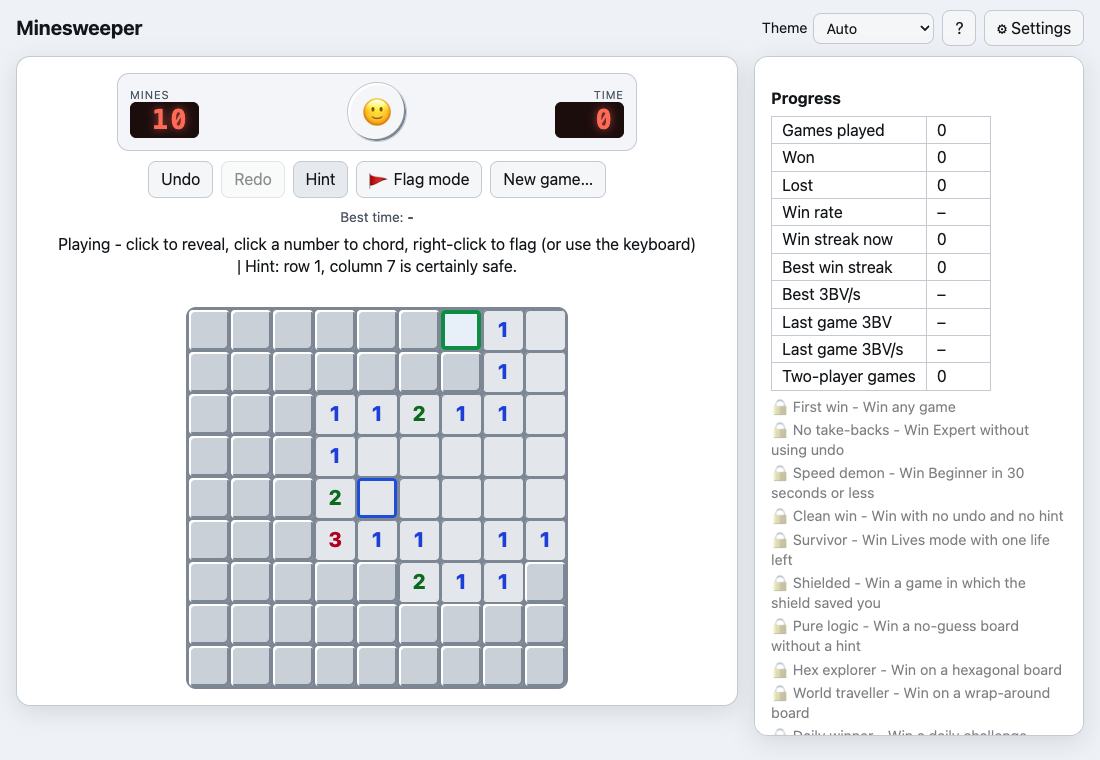
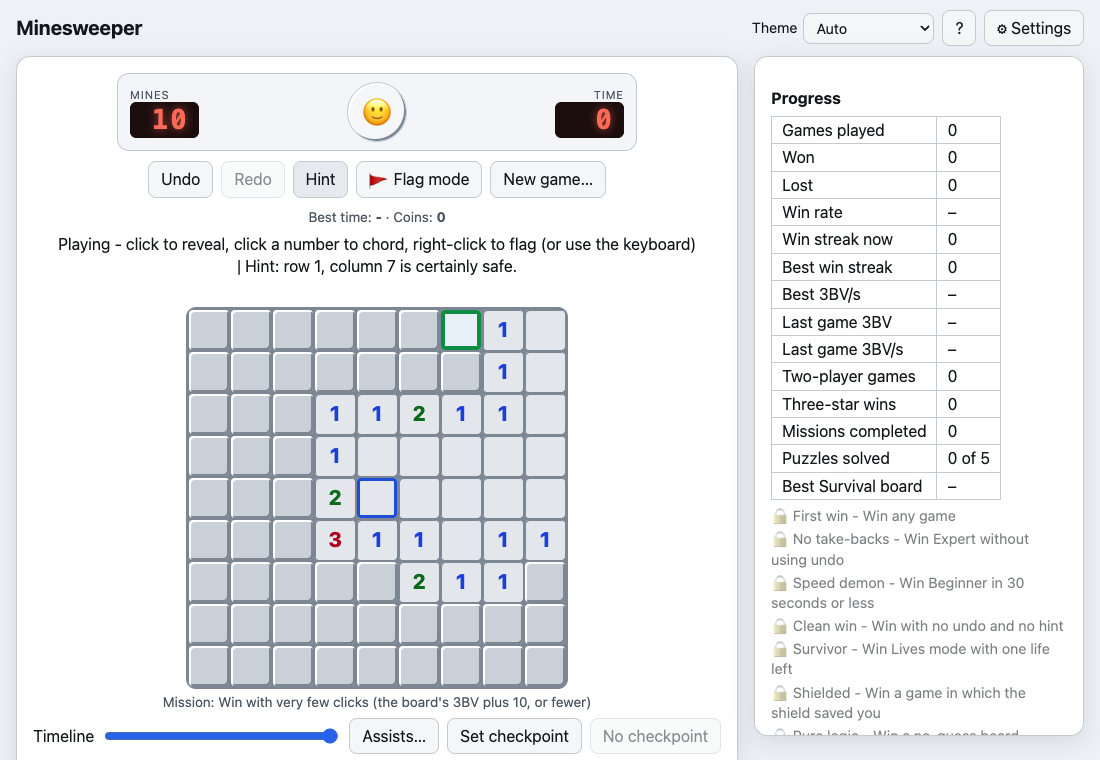
Update the report: demo steps for the newer features, git workflow rows, four new screenshots
Also offer Race my best only once a game is over or while racing a ghost.

diff --git a/scripts/screenshots.js b/scripts/screenshots.js
@@ -5,6 +5,7 @@ const { spawn } = require('child_process');
 const path = require('path');
 const { Game } = require('../src/game.js');
 const { mulberry32 } = require('../src/rng.js');
+const Solver = require('../src/solver.js');
 
 const out = path.join(__dirname, '..', 'docs', 'screenshots');
 const PORT = 4174, base = `http://127.0.0.1:${PORT}/index.html?seed=11`;
@@ -18,16 +19,28 @@ function minesOf(opts = {}) {
   return { mines: cells.filter(m => m.x.mine && !m.x.revealed), safe: cells.filter(m => !m.x.mine && !m.x.revealed) };
 }
 
+// Cells to click (after the first click at 4,4) until logic alone cannot go further: there the hint shows mine chances.
+function stuckClicks(seed) {
+  const g = new Game(9, 9, 10, mulberry32(seed)); g.reveal(4, 4);
+  const clicks = [];
+  for (;;) {
+    const v = g._visible(), { safe } = Solver.deduce(g.nb, v.revealed, v.num, v.known, 10);
+    const i = safe.findIndex((x, k) => x && !v.revealed[k]);
+    if (i < 0 || g.status !== 'playing') return clicks;
+    clicks.push([Math.floor(i / 9), i % 9]); g.reveal(Math.floor(i / 9), i % 9);
+  }
+}
+
 (async () => {
   const server = spawn('node', [path.join(__dirname, 'serve.js')], { env: { ...process.env, PORT: String(PORT) } });
   await new Promise(resolve => setTimeout(resolve, 800));
   const browser = await chromium.launch({ channel: process.env.PW_CHANNEL || undefined });
 
-  async function shot(name, ctxOptions, options, steps) {
+  async function shot(name, ctxOptions, options, steps, seed = 11) {
     const ctx = await browser.newContext(ctxOptions);
     const page = await ctx.newPage();
     if (options) await page.addInitScript(o => localStorage.setItem('ms-options', JSON.stringify(o)), options);
-    await page.goto(base);
+    await page.goto(base.replace('seed=11', 'seed=' + seed));
     const cell = (r, c) => page.locator('#board .cell').nth(r * 9 + c);
     const dismissTip = async () => { if (await page.locator('#tip').isVisible()) await page.click('#tip-dismiss'); };
     await steps({ page, cell, dismissTip });
@@ -73,6 +86,29 @@ function minesOf(opts = {}) {
 
   await shot('08-phone', { ...devices['Pixel 7'], deviceScaleFactor: 1 }, null, async ({ cell, dismissTip }) => {
     await dismissTip(); await cell(4, 4).click(); await dismissTip();
+  });
+
+  await shot('09-probability-hint', desktop, null, async ({ page, cell, dismissTip }) => {
+    await dismissTip(); await cell(4, 4).click(); await dismissTip();
+    for (const [r, c] of stuckClicks(36)) if (!(await cell(r, c).evaluate(el => el.classList.contains('open')))) await cell(r, c).click();
+    await page.click('#hint');
+  }, 36);
+
+  await shot('10-undo-timeline', desktop, null, async ({ page, cell, dismissTip }) => {
+    await dismissTip(); await cell(4, 4).click(); await dismissTip();
+    for (const c of [0, 1, 2, 3]) await cell(0, c).click({ button: 'right' });
+    await page.locator('#timeline').fill('3');
+  });
+
+  await shot('11-versus-computer', desktop, { mode: 'ai' }, async ({ page, cell, dismissTip }) => {
+    await dismissTip(); await cell(4, 4).click(); await dismissTip();
+    await page.waitForTimeout(1500);                           // the computer answers on the next clock tick
+  });
+
+  const shopCtx = { ...desktop, viewport: { width: 1100, height: 1100 } };
+  await shot('12-shop', shopCtx, null, async ({ page, dismissTip }) => {
+    await page.evaluate(() => { vm.shop.coins = 60; vm.shop.stock.scanner = 3; vm.shop.save(); vm.buy('pu-row'); });
+    await dismissTip(); await page.locator('#buy-theme-ocean').scrollIntoViewIfNeeded();
   });
 
   await browser.close();

diff --git a/src/app.js b/src/app.js
@@ -147,7 +147,7 @@ function render(s) {
   $('cp-set').disabled = !live;
   $('cp-back').disabled = !s.checkpoint.canReturn;
   $('cp-back').textContent = s.checkpoint.set ? 'Back to checkpoint' : 'No checkpoint';
-  $('race-ghost').hidden = !s.canRace || s.status === 'playing' && s.timeline.total === 0 && !s.ghost;
+  $('race-ghost').hidden = !s.canRace || (s.status === 'playing' && !s.ghost);   // offered once a game is over (or while racing)
   $('mission').hidden = !s.mission; if (s.mission) $('mission').textContent = 'Mission: ' + s.mission.text;
   $('ghostbar').hidden = !s.ghost;
   if (s.ghost) {

diff --git a/REPORT.md b/REPORT.md
@@ -28,6 +28,22 @@ A loss: the mine that was hit is outlined, the wrong flag has a cross, everythin
 
 Replay: the finished game is stepped through move by move (or played automatically).
 
+![Probability hint](docs/screenshots/09-probability-hint.png)
+
+Probability hint: when nothing is certain, Hint shows every hidden cell's chance of a mine (0 percent and 100 percent cells are certain).
+
+![Undo timeline](docs/screenshots/10-undo-timeline.png)
+
+The undo timeline under the board: the slider jumps to any move; the label says which move it is. Checkpoints sit beside it.
+
+![Versus the computer](docs/screenshots/11-versus-computer.png)
+
+Versus the computer: the scores are in the status line, and the computer answers your move on the next clock tick.
+
+![Shop](docs/screenshots/12-shop.png)
+
+The shop in the Stats and saves panel: coins from wins buy themes and power-ups.
+
 ![Dark theme](docs/screenshots/07-dark-theme.png)
 
 The dark theme. The Auto theme picks it when the device prefers dark.
@@ -308,7 +324,13 @@ Results: 192 of 192 logic tests pass. The browser tests pass in Chrome, WebKit, 
 10. Replay: finish a game (a quick loss is fine), then press Replay. Step forward and back, then press Play for the automatic replay, then Close replay.
 11. Daily challenge: New game..., Today's daily challenge. The status line shows the date. Open the share link from the side panel in another tab: the same board appears.
 12. Appearance and keys: switch the theme to Dark; open Settings, Controls and add a second key to Flag; press the ? button for the shortcut list.
-13. Tests: run node --test in a terminal and show the passing count.
+13. Probability hint: start a new game and play until Hint says that no cell is certain. The numbers on the board are each cell's chance of a mine. Open Assists... and press Best guess: the safest cell is outlined.
+14. Versus computer: New game..., Mode Versus the computer. Make a move; on the next clock tick the computer plays a safe cell or its best guess. Compare the scores in the status line.
+15. Undo timeline: flag a few cells, then drag the Timeline slider back and forward. Set checkpoint, play on, press Back to checkpoint.
+16. Survival and puzzles: Mode Survival, clear the board and see a bigger one start with the same lives. Then Mode Puzzle, pick a puzzle and solve it within the move limit.
+17. Shop and missions: win a game (the mission line is under the board) to earn coins, open Stats and saves, buy a theme or a power-up, and choose the theme in the header.
+18. Ghost race and weekly challenge: after a win press Race my best to play the same board next to a ghost of your win. Then New game..., This week's challenge for this week's fixed board and mode.
+19. Tests: run node --test in a terminal and show the passing count.
 
 ## 9. Git workflow
 
@@ -321,7 +343,9 @@ The project was built in small steps, each a real commit made when that step wor
 | Framework experiments | cefb26a, df42c87, 0ea5c44, a74fc9a | A Vue view, then a React view driven by the same ViewModel; settings and game files; saved-game slots; Playwright tests |
 | Large feature rounds | 3d108f2, 38ce4dc | Question marks, power-ups, hints, modes, hex and wrap-around boards, daily challenge, replay, themes; then the interface redesign with accessibility |
 | Back to plain scripts | 6916121 | Removed Vue, React and the build step because the assignment is plain HTML, CSS and JavaScript |
-| Patterns and documents | the commit that added this report | Command, Strategy, Memento and Observer made explicit; the ViewModel split into small classes; the stronger solver; the autosave cap; this report, the README and the GitHub Pages workflow |
+| Patterns and documents | 4dd5248 | Command, Strategy, Memento and Observer made explicit; the ViewModel split into small classes; the stronger solver; the autosave cap; this report, the README and the GitHub Pages workflow |
+| Workflows | cb49365 | The GitHub Actions workflows: newer action versions, Node 22, a pinned runner |
+| Smarter help and progression | 3f5be76 | Probability hints, best guess, auto-flag, undo timeline and checkpoints, five new modes, more power-ups, coins and a shop, stars, missions, weekly challenge, ghost races |
 
 The Vue and React views are still in the history: git checkout extras-vue-react-views shows them, and the commit message of 6916121 explains why they were removed.
 
@@ -330,4 +354,3 @@ The Vue and React views are still in the history: git checkout extras-vue-react-
 - Run the Firefox browser tests on a machine where Firefox can start.
 - Test on a real phone, and bring the board higher up on small screens.
 - Name the saved-game slots, and allow more than three.
-- A probability-based solver for the boards that need a guess.
